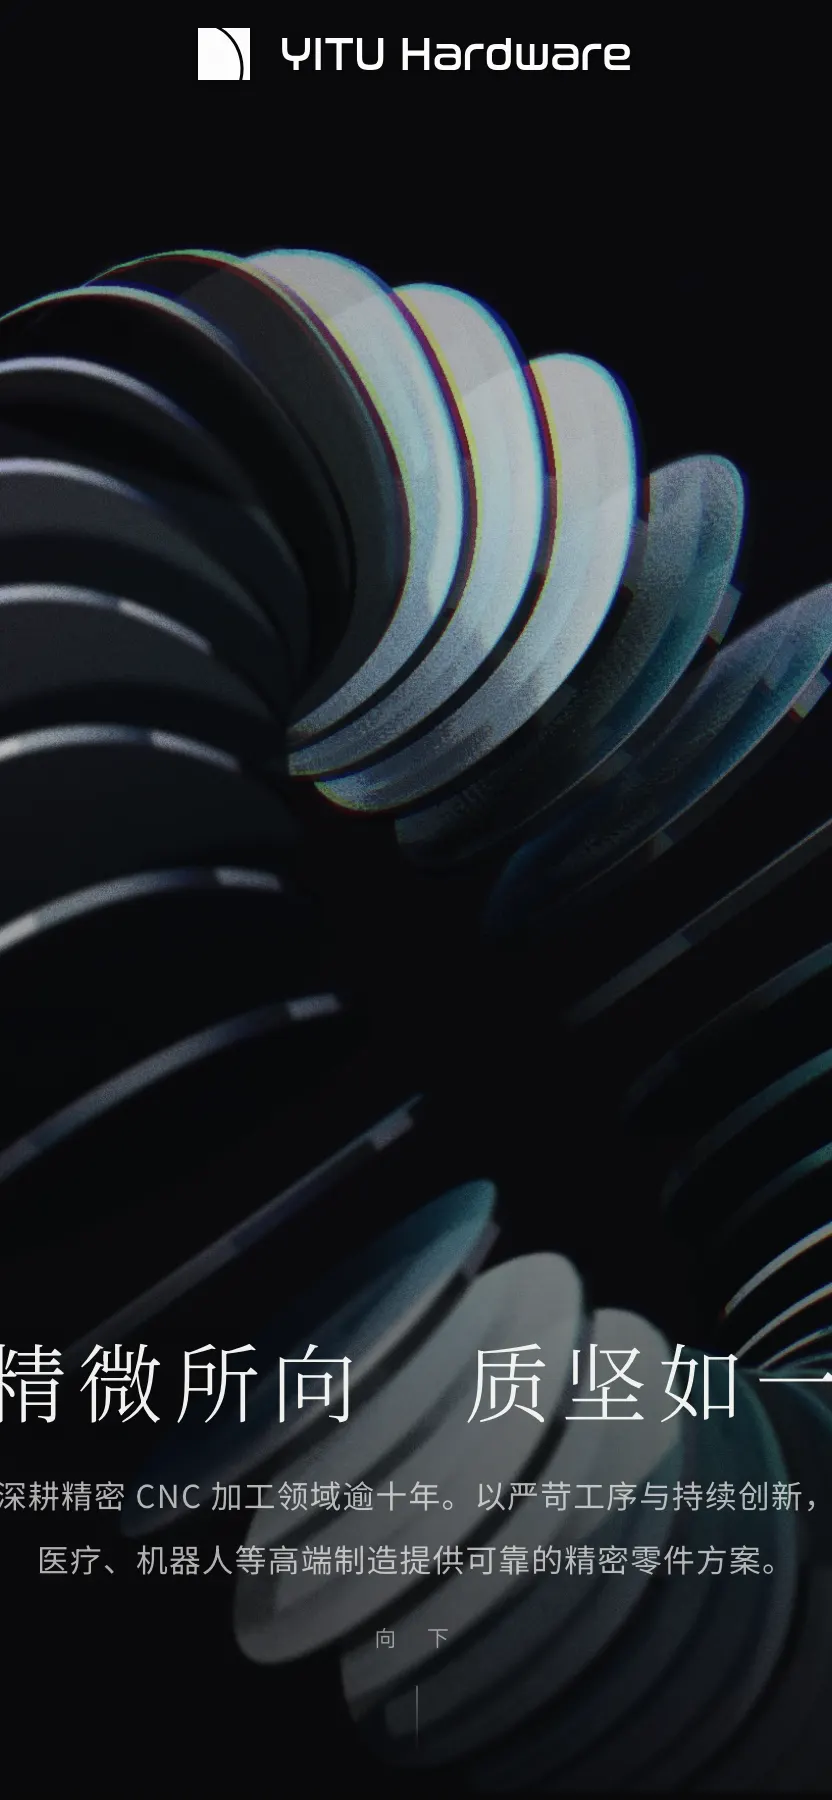
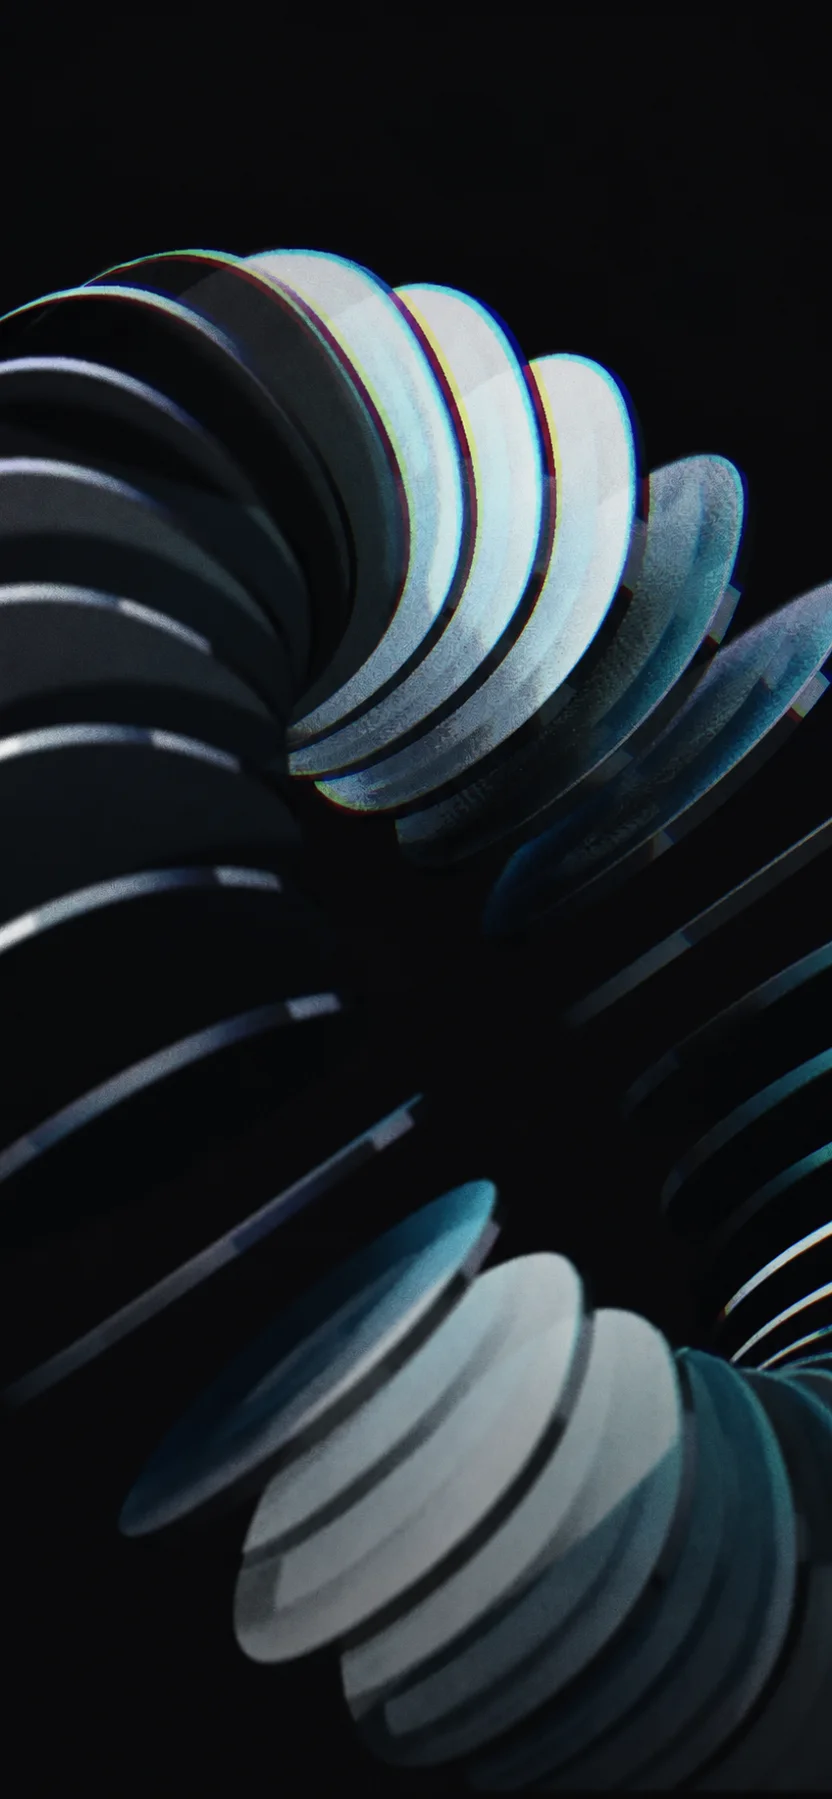
chore: commit pending docs and hero mobile image cleanup

diff --git a/README.md b/README.md
@@ -1,88 +1,68 @@
 # YITU Hardware · 怡途五金
 
-![YITU Hardware brand preview](public/og-image.jpg)
+A bilingual website for a precision CNC machining business, combining industrial visuals, interactive 3D and a clear journey from services to inquiry.
 
-A bilingual precision-manufacturing website built with Next.js, React, TypeScript, Spline and GSAP. Static HTML, CSS and JavaScript are generated for Cloudflare Pages. No application server, database or upload service is required.
+面向海外客户的中英文精密制造企业网站。项目围绕精密 CNC 加工业务，将行业应用、加工工艺、企业能力、合作保障与联系询价组织为完整的单页体验。
 
-中英文精密 CNC 企业展示网站，展示服务行业、工艺和合作流程，让客户通过自己的邮箱发送询价。项目由用户主导业务、内容和设计决策，与 AI 协作开发。
+## 项目目标
 
-**Status:** static build, TypeScript and ESLint checks pass. Cloudflare production hosting and the new domain are not configured yet. Latest browser regression remains pending; see [verification notes](PRELAUNCH-REVIEW.md).
+让初次接触怡途的客户能够了解企业能做什么、如何开展加工与合作，以及怎样进一步联系。通过清晰的信息结构与克制的工业视觉，将企业资料转化为易于浏览的网页内容。
 
-## Features
+## 网站结构
 
-- Desktop Spline Hero; small screens and reduced-motion mode use an image.
-- Scroll-driven upward text mask. 3D pauses offscreen and when the document is hidden.
-- Responsive GSAP introduction and local WebP industry images.
-- Craft steps share click/scroll position and use crossfades without blur.
-- Keyboard-accessible mobile menu and capability accordion.
-- Chinese / English switching with Zustand; defaults to Chinese, without refresh persistence.
-- Quote form opens a mailto draft. Customers attach drawings and send the email themselves.
-- Local fonts, Open Graph image and Twitter large-image metadata.
+网站采用单页结构，顶部导航可跳转至主要区块。浏览顺序围绕“认识企业 → 判断业务匹配 → 了解合作方式 → 联系询价”展开。
 
-## Stack
+| 顺序 | 区块 | 内容与作用 |
+| --- | --- | --- |
+| 1 | 首页 Hero | 3D 金属主体、品牌标题与描述，建立第一印象并引导继续浏览。 |
+| 2 | 品牌介绍 | 介绍专注的业务方向与制造经历，承接首页展示。 |
+| 3 | 服务领域 | 新能源、医疗器械、机器人与无人机应用，帮助客户判断行业适配。 |
+| 4 | 工艺流程 | 原材料管控、精密加工、尺寸检验、表面处理，说明零件的加工流程。 |
+| 5 | 加工能力 | 尺寸精度、表面粗糙度、同轴度与圆度、加工范围，为图纸沟通提供依据。 |
+| 6 | 合作保障 | 图纸保密、质量把控与交期管理，回应合作前的关键顾虑。 |
+| 7 | 公司介绍 | 企业经历、创办人与运作方式，让业务介绍对应到具体企业与负责人。 |
+| 8 | 联系与询价 | 电话、邮箱、微信与询价表单，将浏览引向具体需求沟通。 |
+| 9 | 页脚 | 汇总导航、联系方式与版权信息，方便再次查找。 |
 
-| Area | Technology |
-| --- | --- |
-| Application | Next.js 16 App Router, React 19, TypeScript |
-| Styling | CSS, inline component styles, Tailwind CSS 4 |
-| Motion | GSAP / ScrollTrigger, CSS transitions |
-| 3D | Spline React integration and runtime |
-| Language | Zustand |
-| Fonts | Noto Serif SC, Noto Sans SC, Fraunces, JetBrains Mono via installed Fontsource packages |
-| Hosting | Next.js static export for Cloudflare Pages |
+中英文共享信息结构，桌面保留 3D 交互，手机采用静态背景并适配导航、标题与表单。询价表单整理公司、材料、数量等信息后打开客户邮箱草稿，由客户添加图纸并发送。
 
-## Local development
+## 对实体制造与跨境业务的价值
 
-Use Node.js 22. The release was built with Node.js 22.22.1; package-lock.json records the dependencies.
+- **呈现实体能力**：把分散在工艺、人员与日常介绍中的企业信息整理为可浏览的资料，让尚未到访工厂的客户建立初步认识。
+- **提高沟通针对性**：客户先了解行业与能力，再带着材料、数量和图纸要求联系，有助于减少重复介绍，把讨论集中到加工、报价与交期。
+- **支持线下销售**：网站可作为展会、名片、业务邮件和客户转介绍中的统一入口，保持不同渠道的企业介绍一致。
+- **方便海外客户筛选**：英文内容支持海外采购与工程人员自行了解、转发和讨论企业资料，减少基础信息的语言障碍。
+- **衔接时差与询价**：客户可按自己的工作时间阅读，通过邮箱补充需求与图纸，再由双方人工确认工艺、报价和订单。
+
+这些是网站的业务设计目标，实际询盘与合作效果需要在使用中观察。
+
+## 设计与实现
+
+项目以留白、金属质感、明暗区块和字体层级建立专业、清晰的视觉语言。滚动动效配合内容阅读，工艺图片采用柔和交叉淡入，并让点击选择与滚动位置保持同步。
+
+作者主导业务需求、内容取舍与视觉方向，与 AI 协作完成前端实现、动画调整、响应式适配和问题排查。项目经验包括将业务语言转化为页面要求、根据观看反馈调整动画，以及结合实际内容检查中英文和移动端表现。
+
+[完整项目介绍与经验 · Notion](https://app.notion.com/p/3f915452b84481d981b8d39ed184faa1?pvs=204)
+
+## 技术
+
+Next.js 16 · React 19 · TypeScript · Tailwind CSS 4 · GSAP · Spline · Zustand。
+
+图片与字体使用本地资源，网站支持静态导出。仓库包含完整源码、资源、配置和依赖锁文件。
+
+## 本地运行
+
+使用当前 Node.js 22 版本（至少 22.22.2）。
 
 ```bash
 npm ci
 npm run dev
 ```
 
-Open http://localhost:3000. If occupied, use `npm run dev -- --port 3002`.
+检查命令：`npm run lint`、`npm run build`、`npm run typecheck`。静态构建输出为 `out/`。
 
-## Checks and build
+## 项目状态
 
-```bash
-npm run lint
-npm run build
-npm run typecheck
-```
+中英文页面、响应式布局与主要交互已完成。桌面、375px 和 768px 基础浏览器检查，以及 lint、类型检查和构建检查通过；已验证从 GitHub 全新克隆后安装与构建。真机及其他使用环境仍需进一步验收，正式在线地址待补充。
 
-Build output is `out/`. An optional static preview is:
-
-```bash
-python3 -m http.server 3001 --bind 127.0.0.1 --directory out
-```
-
-Open http://127.0.0.1:3001 and stop with Ctrl+C. Python is a local preview tool, not a website dependency. There is no Node-server `npm start` command for this static site.
-
-## Structure
-
-```text
-src/app/                  Page, metadata and global styles
-src/components/layout/    Header and footer
-src/components/sections/  Hero, industries, craft and contact
-src/components/ui/        Shared headings and language text
-src/hooks/                Language state and reveal observer
-public/                   Brand, photos, OG and local assets
-next.config.ts            Static-export configuration
-eslint.config.mjs         Next.js and TypeScript lint configuration
-```
-
-Commit source, public, configuration, lock file and documentation. Do not commit node_modules, .next, out, environment files, caches or credentials; .gitignore covers these. `private: true` in package.json prevents accidental npm publication and does not make GitHub private.
-
-## Documentation
-
-- [Cloudflare deployment](DEPLOYMENT.md)
-- [Project goals and AI handoff](PROJECT.md)
-- [Release verification](PRELAUNCH-REVIEW.md)
-
-Before using a new domain, replace metadataBase and openGraph.url in src/app/layout.tsx. Their current value is the previously provided address, not evidence of a live deployment. The application requires no business environment variables or secrets.
-
-## External resources and rights
-
-The desktop scene loads from prod.spline.design. Hosting the page does not guarantee Spline availability or WebGL performance on every device. Fonts and images are local. Scene-load failure shows an image, a visible error and a retry button.
-
-Brand assets and company copy belong to this project. Public visibility is not a blanket license to reuse trademarks or third-party assets. Dependency/font licenses remain those of their packages; no project-wide open-source license has been selected.
+品牌、企业文案及第三方素材的权利归相应权利人所有。第三方依赖、字体与资源遵循各自许可；仓库尚未设置项目整体的开源许可证。

diff --git a/PRELAUNCH-REVIEW.md b/PRELAUNCH-REVIEW.md
@@ -12,7 +12,12 @@
 | 本地图片引用 | 未发现缺失 |
 | OG 图片 | 1200×630 JPEG，12,598 字节 |
 | 输出文件限制 | 892 个文件，无单文件超过 25 MiB |
-| 当前输出体积 | 36,343,408 字节，含 Unicode 范围分片的本地字体；这不是首屏下载量 |
+| 当前输出体积 | 36,346,254 字节，含 Unicode 范围分片的本地字体；这不是首屏下载量 |
+| 手机 Hero 背景 | 去掉烘焙的 Logo 和全部文字；832×1799 WebP，63,232 字节 |
+| 本轮浏览器基础回归 | 375×812、768×1024、1440×900，中英文；无横向溢出、标题越界或破损图片，输入项 label 关联通过 |
+| 交互抽查 | 375px 菜单展开/Escape 关闭；桌面和 375px 工艺点 04 后下滚保持 04；桌面 Spline 出现，≤768px 无 Hero canvas |
+| 干净源码恢复 | 2026-10-15 从 GitHub main 全新克隆，npm ci --no-audit --no-fund 后 npm run build 通过；未复用项目 node_modules |
+| 安装警告 | Node 22.22.1 下现有 mute-stream 4.0.0 要求至少 22.22.2；未更改锁文件或依赖 |
 | 依赖漏洞审计 | 此前 npm audit 因网络失败未完成，不能宣称无漏洞 |
 
 ## 已落实修复
@@ -30,17 +35,17 @@
 
 ## 未验证边界
 
-浏览器自动审批因额度限制暂停，本轮最新改动的静态包桌面/手机回归和截图未完成。旧版曾复现过菜单透明、标题双列和工艺回退，现已做根因修复及静态检查，但旧截图不能当作修复后的验收。
+本轮使用最新 out 进行浏览器检查和截图，完成上述基础回归。图片替换前实际复现了烘焙文字与页面文字重复，替换后中文和英文都不再重复。基础回归不代表所有交互、文案和设备均完成验收。
 
-尚未验证 Cloudflare 线上、Safari/Android 真机、海外网络、GPU/帧率、复制权限失败、完整键盘流程及实际邮件/附件发送。
+尚未验证 Cloudflare 线上、Safari/Android 真机、海外网络、GPU/帧率、3D 失败重试及后台暂停恢复、复制权限失败、完整键盘流程及实际邮件/附件发送。干净恢复使用本机临时目录，并非另一台电脑；npm audit 本轮没有重跑。
 
 新域名未提供。layout.tsx 中 metadataBase 和 openGraph.url 仍是之前的地址，选定新域名后更新这两处再正式发布。
 
 ## 发布前验收
 
-- [ ] 新 GitHub 公开仓库中文件完整，没有依赖目录、构建缓存或秘密文件。
-- [ ] 新 Notion 项目档案记录实际状态和链接。
-- [ ] 最新 out 在桌面和 375px/768px 中英文完成浏览器回归。
+- [x] 新 GitHub 公开仓库中 58 个文件路径与内容哈希核对一致，没有依赖目录、构建缓存或秘密文件。
+- [x] 新 Notion 作品页参照 Huh Cat 整理，包含项目经验和代码链接，已读回确认。
+- [x] 最新 out 在桌面和 375px/768px 中英文完成基础浏览器回归。
 - [ ] 3D 加载、交互、失败重试、离屏/后台暂停及恢复正常。
 - [ ] 工艺点击后滚动不回退，快速切换最终步骤正确。
 - [ ] 图片、字体、JS/CSS 无 404，没有明显裁切或导航重叠。

diff --git a/PROJECT.md b/PROJECT.md
@@ -37,6 +37,9 @@
 - OG 图片为 1200×630 JPEG、12,598 字节，OG/Twitter 字段补齐。
 - GSAP 响应式生命周期，移除飞图 blur，离屏跳过图片重叠检测，减少动态效果模式使用静态表现。
 - lint、TypeScript 和静态构建通过。
+- 手机 Hero 背景已用 imagegen 去掉烘焙的旧 Logo 和全部文字，保留金属构图；真实标题、描述及向下提示未改。资源为 public/hero-mobile.webp，832×1799、63,232 字节。
+- 本轮重新运行 lint、build、typecheck，通过；375px、768px、1440px 中英文基础浏览器回归通过，未发现横向溢出、标题越界和破损图片。
+- 临时干净源码目录按锁文件 npm ci 后构建通过；Node 22.22.1 有现有 mute-stream 间接依赖的 engine 警告，建议使用 22.22.2 或更新的 22 版本。
 
 ## 工程地图
 
@@ -46,9 +49,9 @@ Node.js 22；npm ci、npm run dev。发布检查为 npm run lint、npm run build
 
 ## 剩余发布工作
 
-1. 创建新公开 GitHub 仓库并验证文件上传完整性。
-2. 新建 Notion 项目档案，保存实际仓库和发布链接。
-3. 最新静态包的桌面/手机浏览器回归与截图。当前浏览器自动审批受额度限制，不能把旧截图当成最新验收。
+1. [公开 GitHub 仓库](https://github.com/takuusou/yitu-hardware)的 main 已包含全部 58 个跟踪文件，逐文件路径与 blob SHA 核对一致。从 GitHub 全新克隆后 npm ci 和 npm run build 通过。
+2. [Notion 作品页](https://app.notion.com/p/3f915452b84481d981b8d39ed184faa1?pvs=204)已参照 Huh Cat 整理为设计、交互、作者职责与项目经验；已读回确认，公开访问仍未确认。GitHub 与 Notion 用于上传与展示项目，Cloudflare 由用户自行处理，不在作品页编写部署教程。
+3. 本轮基础回归涵盖 Hero、中英文切换、三种尺寸的标题与溢出、图片、表单标签、菜单 Escape 和工艺 04 下滚；全流程键盘、3D 失败重试及后台暂停恢复仍需专项验收。
 4. 用户准备域名和 Cloudflare 后发布 pages.dev 预览；更新两个域名字段，再绑定正式域名。
 5. 真机、海外网络、GPU/帧率和实际邮箱/附件发送完成上线验收。
 
